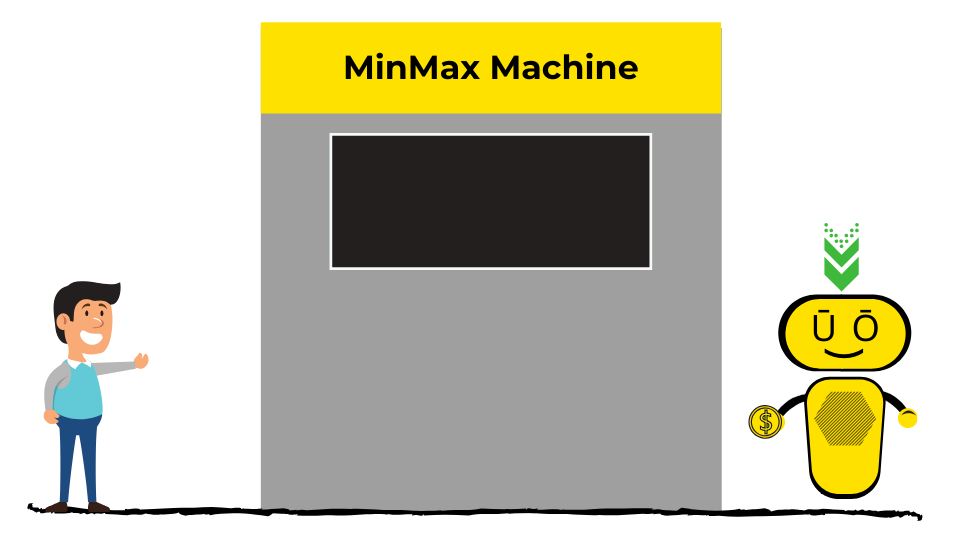
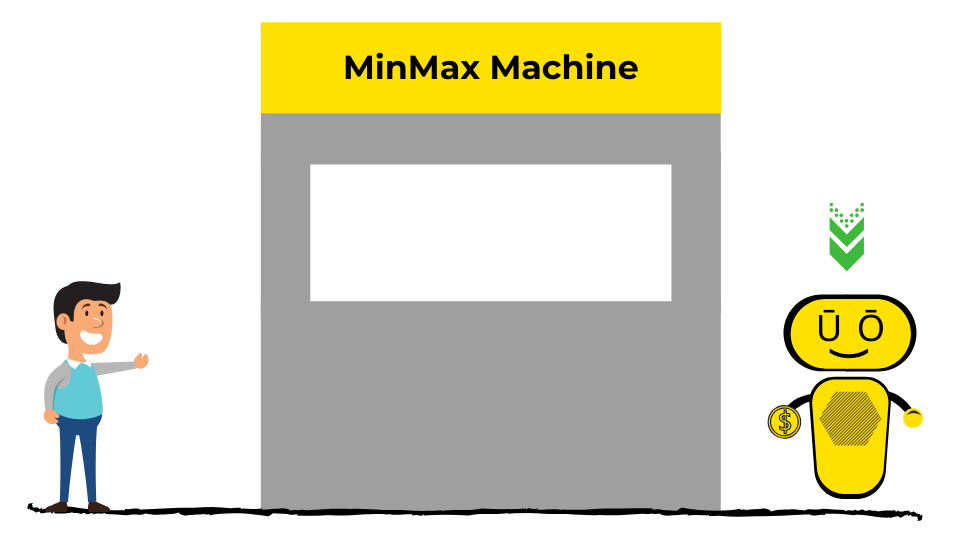
ammelioration de l'affichage de MinMax

Changed region(s): [[0.3125, 0.237, 0.7188, 0.563], [0.7812, 0.5333, 0.9688, 0.9185], [0.8438, 0.3852, 0.9062, 0.5333]]

diff --git a/IA/src/gui/elements/MinMaxWindow.java b/IA/src/gui/elements/MinMaxWindow.java
@@ -52,7 +52,7 @@ public class MinMaxWindow extends JFrame implements Runnable {
 		//////////////PANEL BOUTON///////////////
 		JPanel panel_button = new JPanel();
 		panel_button.setBackground(Color.GRAY);
-		panel_button.setBounds(400, 475, 200, 200);
+		panel_button.setBounds(395, 485, 200, 200);
 		this.getContentPane().add(panel_button);
 		panel_button.setLayout(new GridLayout(0, 1, 0, 20));
 		
@@ -80,7 +80,7 @@ public class MinMaxWindow extends JFrame implements Runnable {
 		
 		scorePanel.setEditable(false);
 		scorePanel.setFont(new Font("Arial",Font.BOLD,30));
-		scorePanel.setBounds(500, 0, 320, 150);
+		scorePanel.setBounds(330, 365, 320, 100);
 		this.getContentPane().add(scorePanel);
 	}
 
